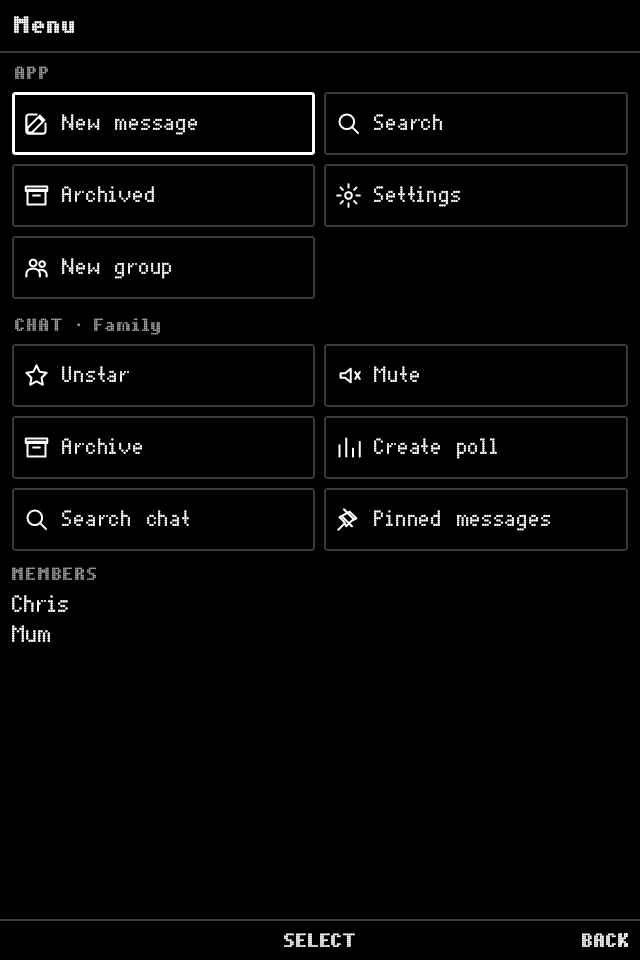
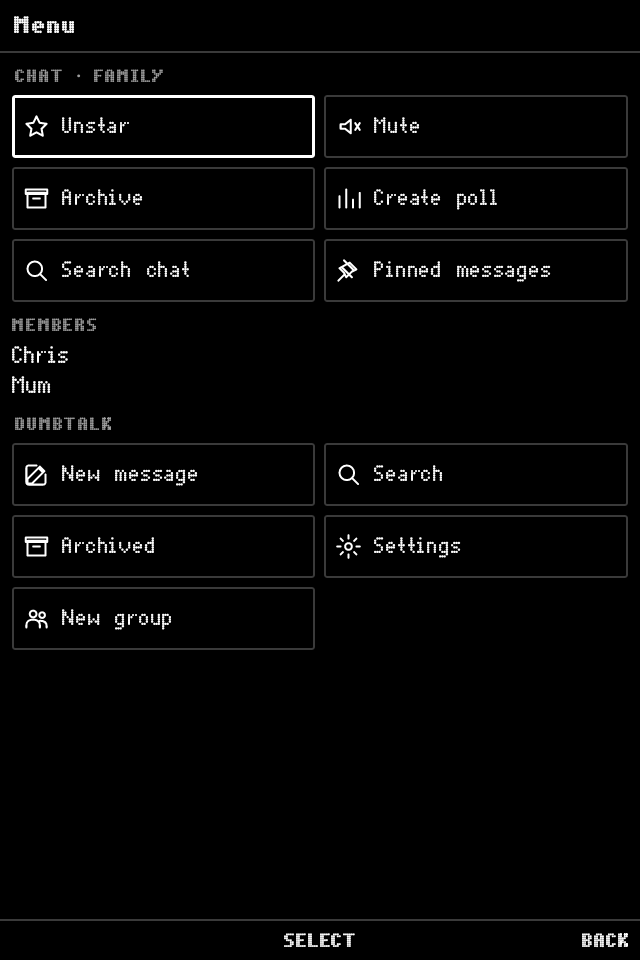
fix: separate selected chat and app menu actions

Changed region(s): [[0.0, 0.0625, 1.0, 0.6875], [0.9688, 0.25, 1.0, 0.2812], [0.4688, 0.6562, 0.5, 0.6875]]

diff --git a/app/src/main/kotlin/dev/dumbtalk/app/ui/Components.kt b/app/src/main/kotlin/dev/dumbtalk/app/ui/Components.kt
@@ -18,6 +18,9 @@ import androidx.compose.foundation.layout.Column
 import androidx.compose.foundation.layout.Row
 import androidx.compose.foundation.layout.Spacer
 import androidx.compose.foundation.layout.fillMaxWidth
+import androidx.compose.foundation.verticalScroll
+import androidx.compose.foundation.rememberScrollState
+import androidx.compose.foundation.layout.fillMaxSize
 import androidx.compose.foundation.layout.height
 import androidx.compose.foundation.layout.heightIn
 import androidx.compose.foundation.layout.offset
@@ -308,9 +311,9 @@ fun DetailText(text: String, color: Color = Palette.muted) {
     BasicText(text.forDisplay(), style = Type.preview.copy(color = color), maxLines = 1, overflow = TextOverflow.Ellipsis)
 }
 
-/** The two-column icon tiles used by option menus. */
+/** The two-column icon tiles used by option menus; [value] is a current setting shown beneath. */
 @Composable
-fun MenuTile(label: String, icon: AppIcon, onClick: () -> Unit, modifier: Modifier = Modifier, focusRequester: FocusRequester? = null) {
+fun MenuTile(label: String, icon: AppIcon, onClick: () -> Unit, modifier: Modifier = Modifier, focusRequester: FocusRequester? = null, value: String? = null) {
     Row(
         modifier
             .heightIn(min = 42.dp)
@@ -320,7 +323,10 @@ fun MenuTile(label: String, icon: AppIcon, onClick: () -> Unit, modifier: Modifi
         horizontalArrangement = Arrangement.spacedBy(8.dp),
     ) {
         Icon(icon, size = 18.dp)
-        BasicText(label, style = Type.label, maxLines = 2)
+        Column {
+            BasicText(label, style = Type.label, maxLines = 2)
+            if (value != null) BasicText(value.forDisplay(), style = Type.small, maxLines = 1, overflow = TextOverflow.Ellipsis)
+        }
     }
 }
 
@@ -478,7 +484,13 @@ fun CenteredMessage(text: String, modifier: Modifier = Modifier, color: Color = 
     }
 }
 
-class MenuItem(val label: String, val icon: AppIcon, val onClick: () -> Unit)
+class MenuItem(val label: String, val icon: AppIcon, val onClick: () -> Unit) {
+    /** A current setting shown under the label ("Flash · Auto"). */
+    var value: String? = null
+        private set
+
+    constructor(label: String, icon: AppIcon, value: String?, onClick: () -> Unit) : this(label, icon, onClick) { this.value = value }
+}
 
 /** Two-column tile grid; the first tile takes [requester]. */
 @Composable
@@ -488,7 +500,7 @@ fun MenuGrid(items: List<MenuItem>, requester: FocusRequester? = null) {
             Row(horizontalArrangement = Arrangement.spacedBy(6.dp)) {
                 pair.forEachIndexed { column, item ->
                     MenuTile(item.label, item.icon, item.onClick, Modifier.weight(1f),
-                        focusRequester = if (row == 0 && column == 0) requester else null)
+                        focusRequester = if (row == 0 && column == 0) requester else null, value = item.value)
                 }
                 if (pair.size == 1) Spacer(Modifier.weight(1f))
             }
@@ -566,4 +578,43 @@ fun SectionTitle(text: String, modifier: Modifier = Modifier) {
 @Composable
 fun ErrorText(text: String, modifier: Modifier = Modifier) {
     BasicText(text, style = Type.small.copy(color = Palette.error), modifier = modifier.padding(horizontal = 10.dp, vertical = 4.dp))
+}
+
+/**
+ * The Menu the left key opens, laid out the same in every app: what can be
+ * done to the selected thing first, under its kind and name ([selection],
+ * e.g. "Call · Maya Chen"), then what the app itself offers, under [app].
+ * Focus starts on the first tile.
+ */
+@Composable
+fun MenuPage(
+    app: String,
+    appItems: List<MenuItem>,
+    onBack: () -> Unit,
+    selection: String? = null,
+    selectionItems: List<MenuItem> = emptyList(),
+    title: String = "Menu",
+) {
+    val focus = remember { FocusRequester() }
+    FocusOnStart(focus)
+    Softkeys(center = SoftkeyAction("Select"), right = SoftkeyAction("Back", onBack))
+    val selected = selection != null && selectionItems.isNotEmpty()
+    Column(Modifier.fillMaxSize()) {
+        Header(title)
+        Column(Modifier.verticalScroll(rememberScrollState()).padding(8.dp)) {
+            if (selected) {
+                MenuSection(selection!!)
+                MenuGrid(selectionItems, focus)
+                Spacer(Modifier.height(10.dp))
+            }
+            MenuSection(app)
+            MenuGrid(appItems, focus.takeIf { !selected })
+        }
+    }
+}
+
+/** A heading over one group of menu tiles. */
+@Composable
+fun MenuSection(text: String) {
+    BasicText(text.uppercase().forDisplay(), style = Type.section, maxLines = 1, overflow = TextOverflow.Ellipsis, modifier = Modifier.padding(start = 2.dp, bottom = 6.dp))
 }

diff --git a/app/src/main/kotlin/dev/dumbtalk/app/screens/MenuScreen.kt b/app/src/main/kotlin/dev/dumbtalk/app/screens/MenuScreen.kt
@@ -1,5 +1,7 @@
 package dev.dumbtalk.app.screens
 
+import androidx.compose.foundation.layout.height
+import dev.dumbtalk.app.ui.MenuSection
 import android.util.Log
 import androidx.compose.foundation.layout.Arrangement
 import androidx.compose.foundation.layout.Column
@@ -114,42 +116,33 @@ fun MenuScreen(app: DumbTalkApp, navigator: Navigator, screen: Screen.Menu) {
         onPins = { navigator.push(Screen.ChatTools(selected, ChatTool.PINS)) },
         deleteThread = capabilities.deleteConversations, onDeleteThread = { showDeleteThread = true },
     ) else emptyList()
-    val restoreChatAction = chatItems.any { it.label == focusedLabel }
+    val appItems = buildList {
+        add(MenuItem("New message", AppIcon.COMPOSE) { navigator.replace(Screen.NewMessage) })
+        add(MenuItem("Search", AppIcon.SEARCH) { navigator.replace(Screen.Search) })
+        add(
+            if (screen.archived) MenuItem("Inbox", AppIcon.ARCHIVE) { navigator.pop(); navigator.pop() }
+            else MenuItem("Archived", AppIcon.ARCHIVE) { navigator.replace(Screen.Inbox(archived = true)) },
+        )
+        add(MenuItem("Settings", AppIcon.SETTINGS) { navigator.push(Screen.Settings) })
+        // Last, so the tiles above keep their places for muscle memory.
+        if (canGroup) add(MenuItem("New group", AppIcon.GROUP) { navigator.replace(Screen.NewGroup) })
+    }
+    // A tile focused before (a chat action, or the app's) keeps focus; otherwise the chat's first.
+    val restoreAppAction = appItems.any { it.label == focusedLabel }
     Column(Modifier.fillMaxSize()) {
         Header("Menu")
         Column(Modifier.verticalScroll(rememberScrollState()).padding(8.dp)) {
-            BasicText("APP", style = Type.section, modifier = Modifier.padding(start = 2.dp, bottom = 6.dp))
-            MenuGrid(
-                buildList {
-                    add(MenuItem("New message", AppIcon.COMPOSE) { navigator.replace(Screen.NewMessage) })
-                    add(MenuItem("Search", AppIcon.SEARCH) { navigator.replace(Screen.Search) })
-                    add(
-                        if (screen.archived) MenuItem("Inbox", AppIcon.ARCHIVE) { navigator.pop(); navigator.pop() }
-                        else MenuItem("Archived", AppIcon.ARCHIVE) { navigator.replace(Screen.Inbox(archived = true)) },
-                    )
-                    add(MenuItem("Settings", AppIcon.SETTINGS) { navigator.push(Screen.Settings) })
-                    // Last, so the tiles above keep their places for muscle memory.
-                    if (canGroup) add(MenuItem("New group", AppIcon.GROUP) { navigator.replace(Screen.NewGroup) })
-                },
-                requester.takeUnless { restoreChatAction }, focusedLabel, { focusedLabel = it },
-            )
             if (selected != null) {
-                BasicText(
-                    "CHAT · ${selected.title}",
-                    style = Type.section,
-                    maxLines = 1,
-                    overflow = TextOverflow.Ellipsis,
-                    modifier = Modifier.padding(start = 2.dp, top = 10.dp, bottom = 6.dp),
-                )
-                MenuGrid(
-                    chatItems,
-                    requester.takeIf { restoreChatAction }, focusedLabel, { focusedLabel = it },
-                )
+                MenuSection("Chat · ${selected.title}")
+                MenuGrid(chatItems, requester.takeUnless { restoreAppAction }, focusedLabel, { focusedLabel = it })
                 if (selected.kind == ConversationKind.GROUP && selected.members.isNotEmpty()) {
                     BasicText("MEMBERS", style = Type.section, modifier = Modifier.padding(top = 10.dp, bottom = 4.dp))
                     selected.members.forEach { BasicText(it.name, style = Type.body, modifier = Modifier.padding(vertical = 2.dp)) }
                 }
+                Spacer(Modifier.height(10.dp))
             }
+            MenuSection("DumbTalk")
+            MenuGrid(appItems, requester.takeIf { selected == null || restoreAppAction }, focusedLabel, { focusedLabel = it })
         }
     }
 }

diff --git a/app/src/test/kotlin/dev/dumbtalk/app/KeypadFlowTest.kt b/app/src/test/kotlin/dev/dumbtalk/app/KeypadFlowTest.kt
@@ -17,6 +17,8 @@ class KeypadFlowTest : KeypadTest() {
         // Second row is Family (favourite); Left opens the menu for it.
         press(KeyEvent.KEYCODE_DPAD_DOWN, KeyEvent.KEYCODE_DPAD_LEFT)
         waitFor("Unstar")
+        waitFor("CHAT · FAMILY")
+        waitFor("DUMBTALK")
         shoot("menu")
 
         // Back returns to the inbox and the centre key opens Family.
@@ -68,7 +70,11 @@ class KeypadFlowTest : KeypadTest() {
         // Open Settings from the menu, then Services.
         press(KeyEvent.KEYCODE_DPAD_LEFT)
         waitFor("Settings")
-        press(KeyEvent.KEYCODE_DPAD_DOWN, KeyEvent.KEYCODE_DPAD_RIGHT, KeyEvent.KEYCODE_DPAD_CENTER)
+        // The selected chat's section now precedes app actions. Focus Settings
+        // directly so this walkthrough does not depend on the chat's tile count.
+        compose.onNode(hasText("Settings")).requestFocus()
+        step()
+        press(KeyEvent.KEYCODE_DPAD_CENTER)
         waitFor("Services")
         press(KeyEvent.KEYCODE_DPAD_CENTER)
         waitFor("+15550100999")
